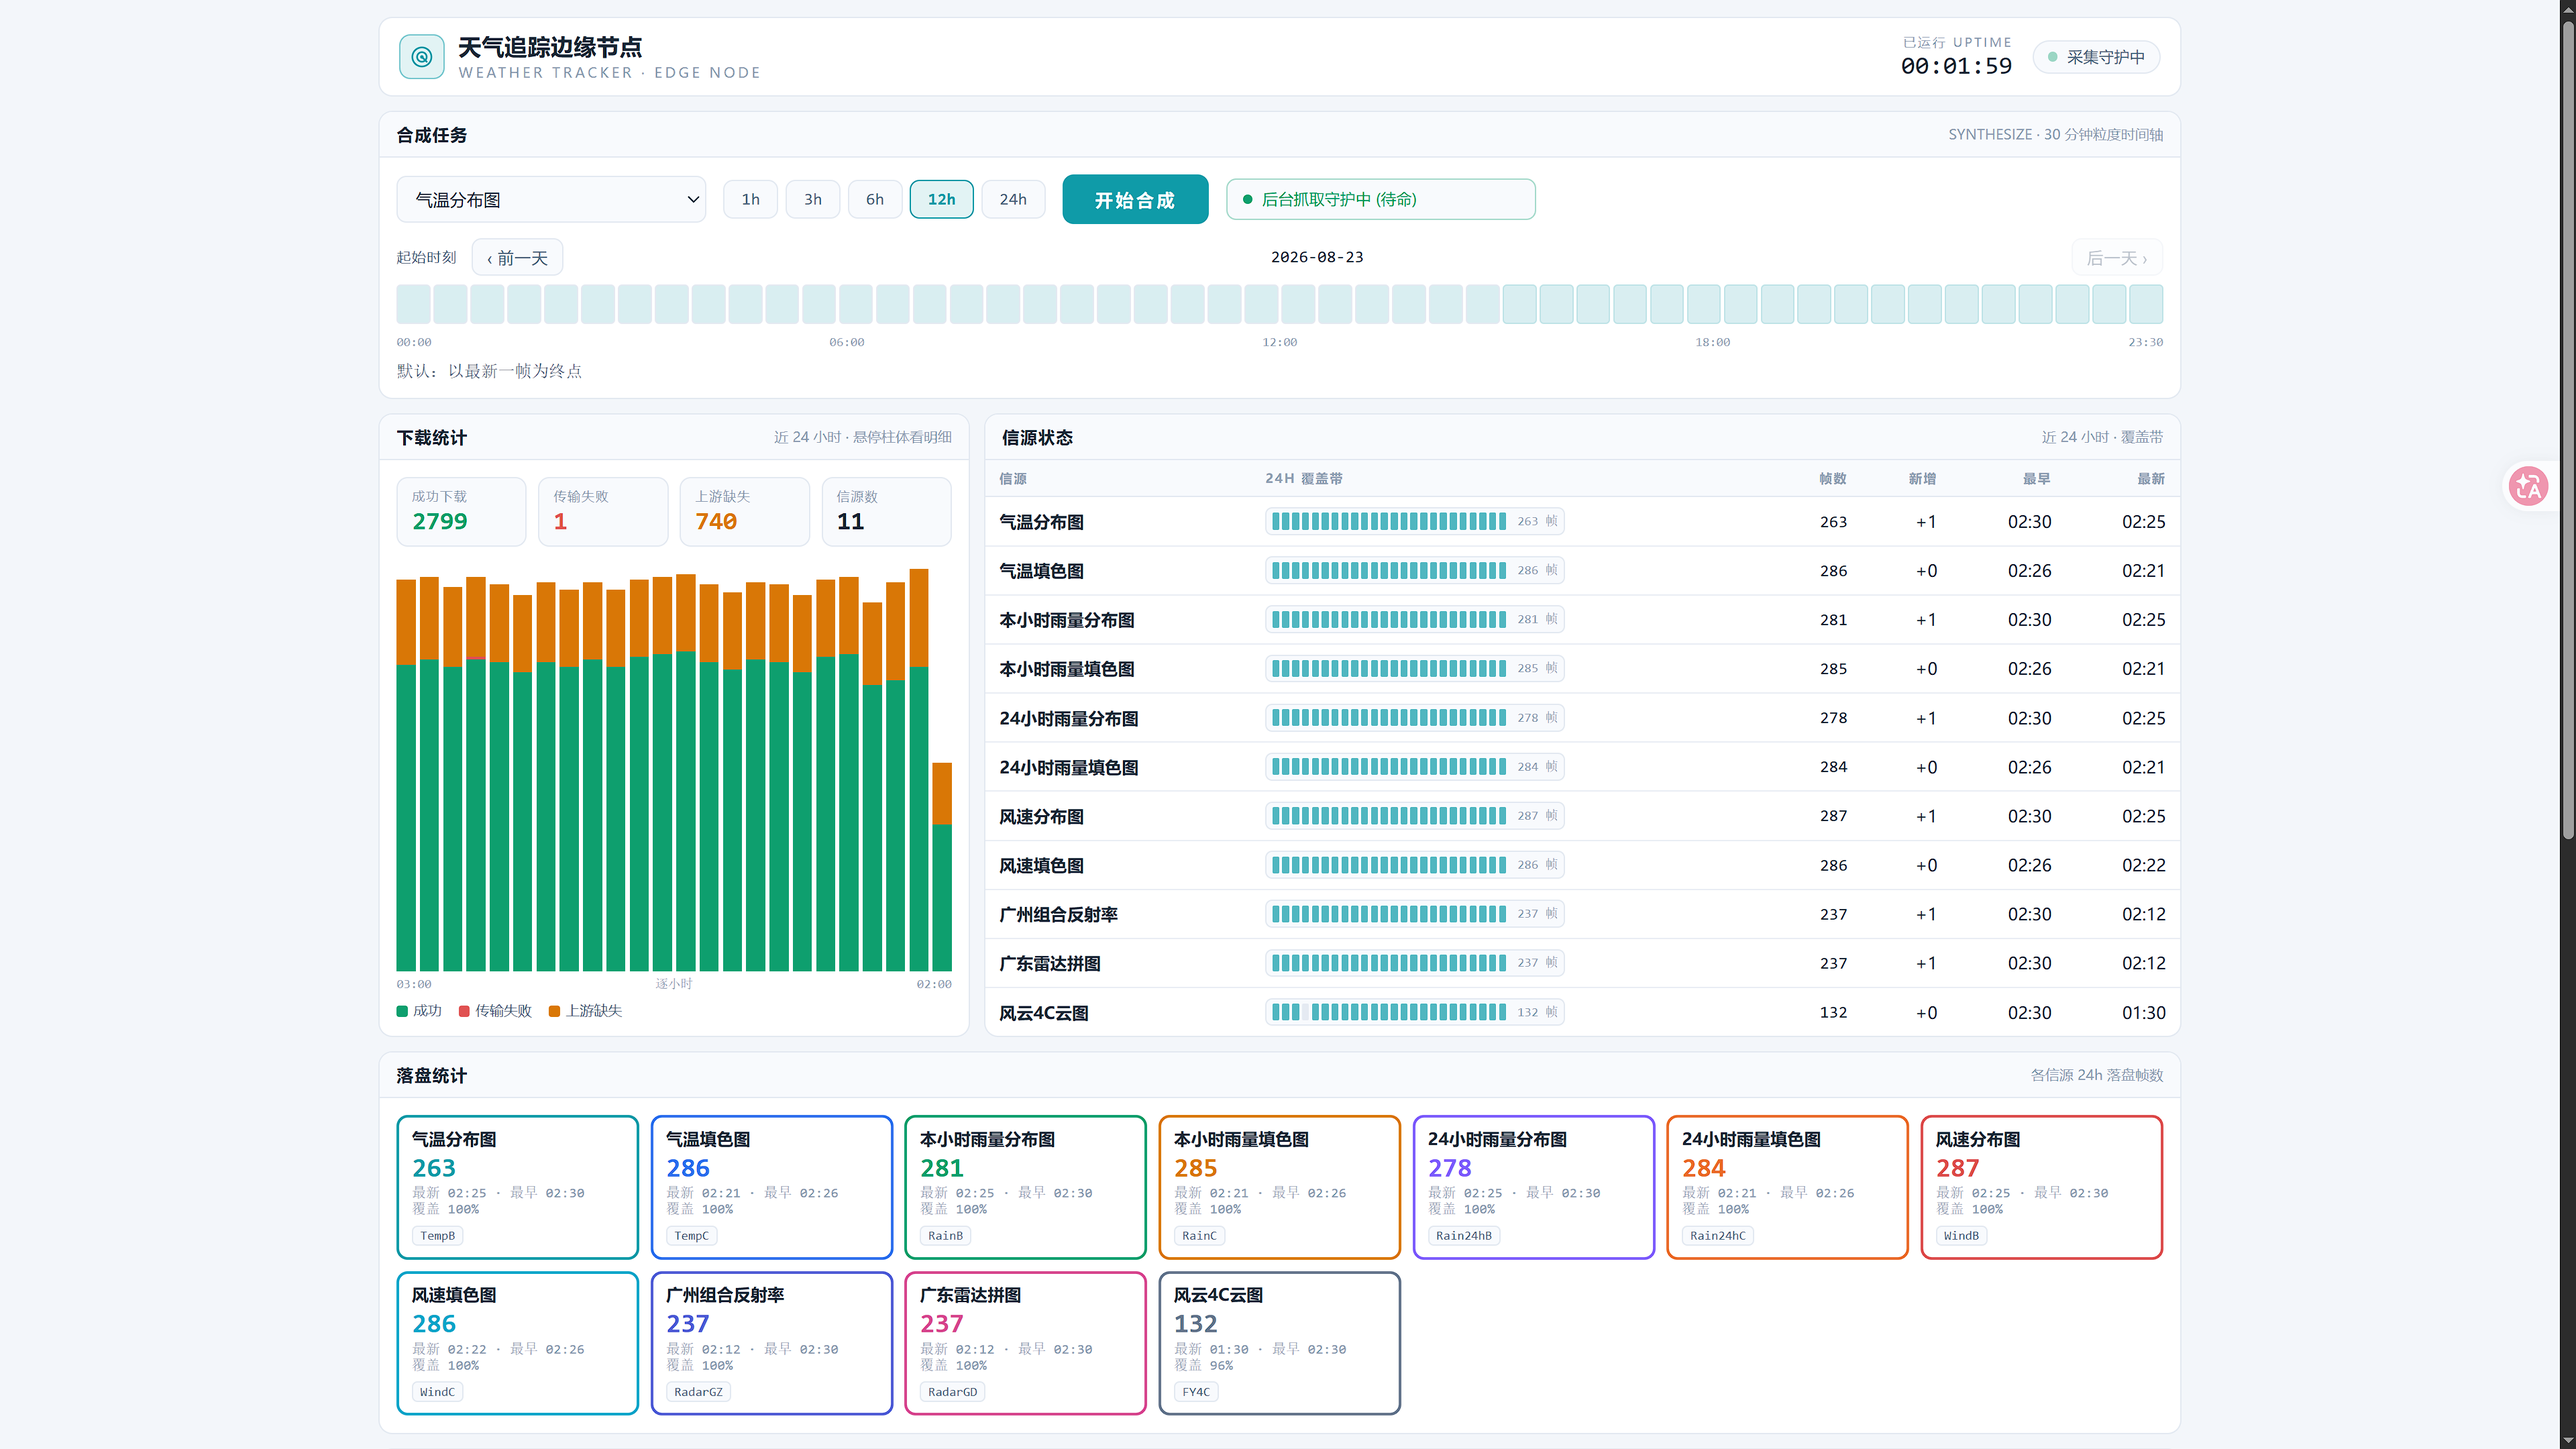
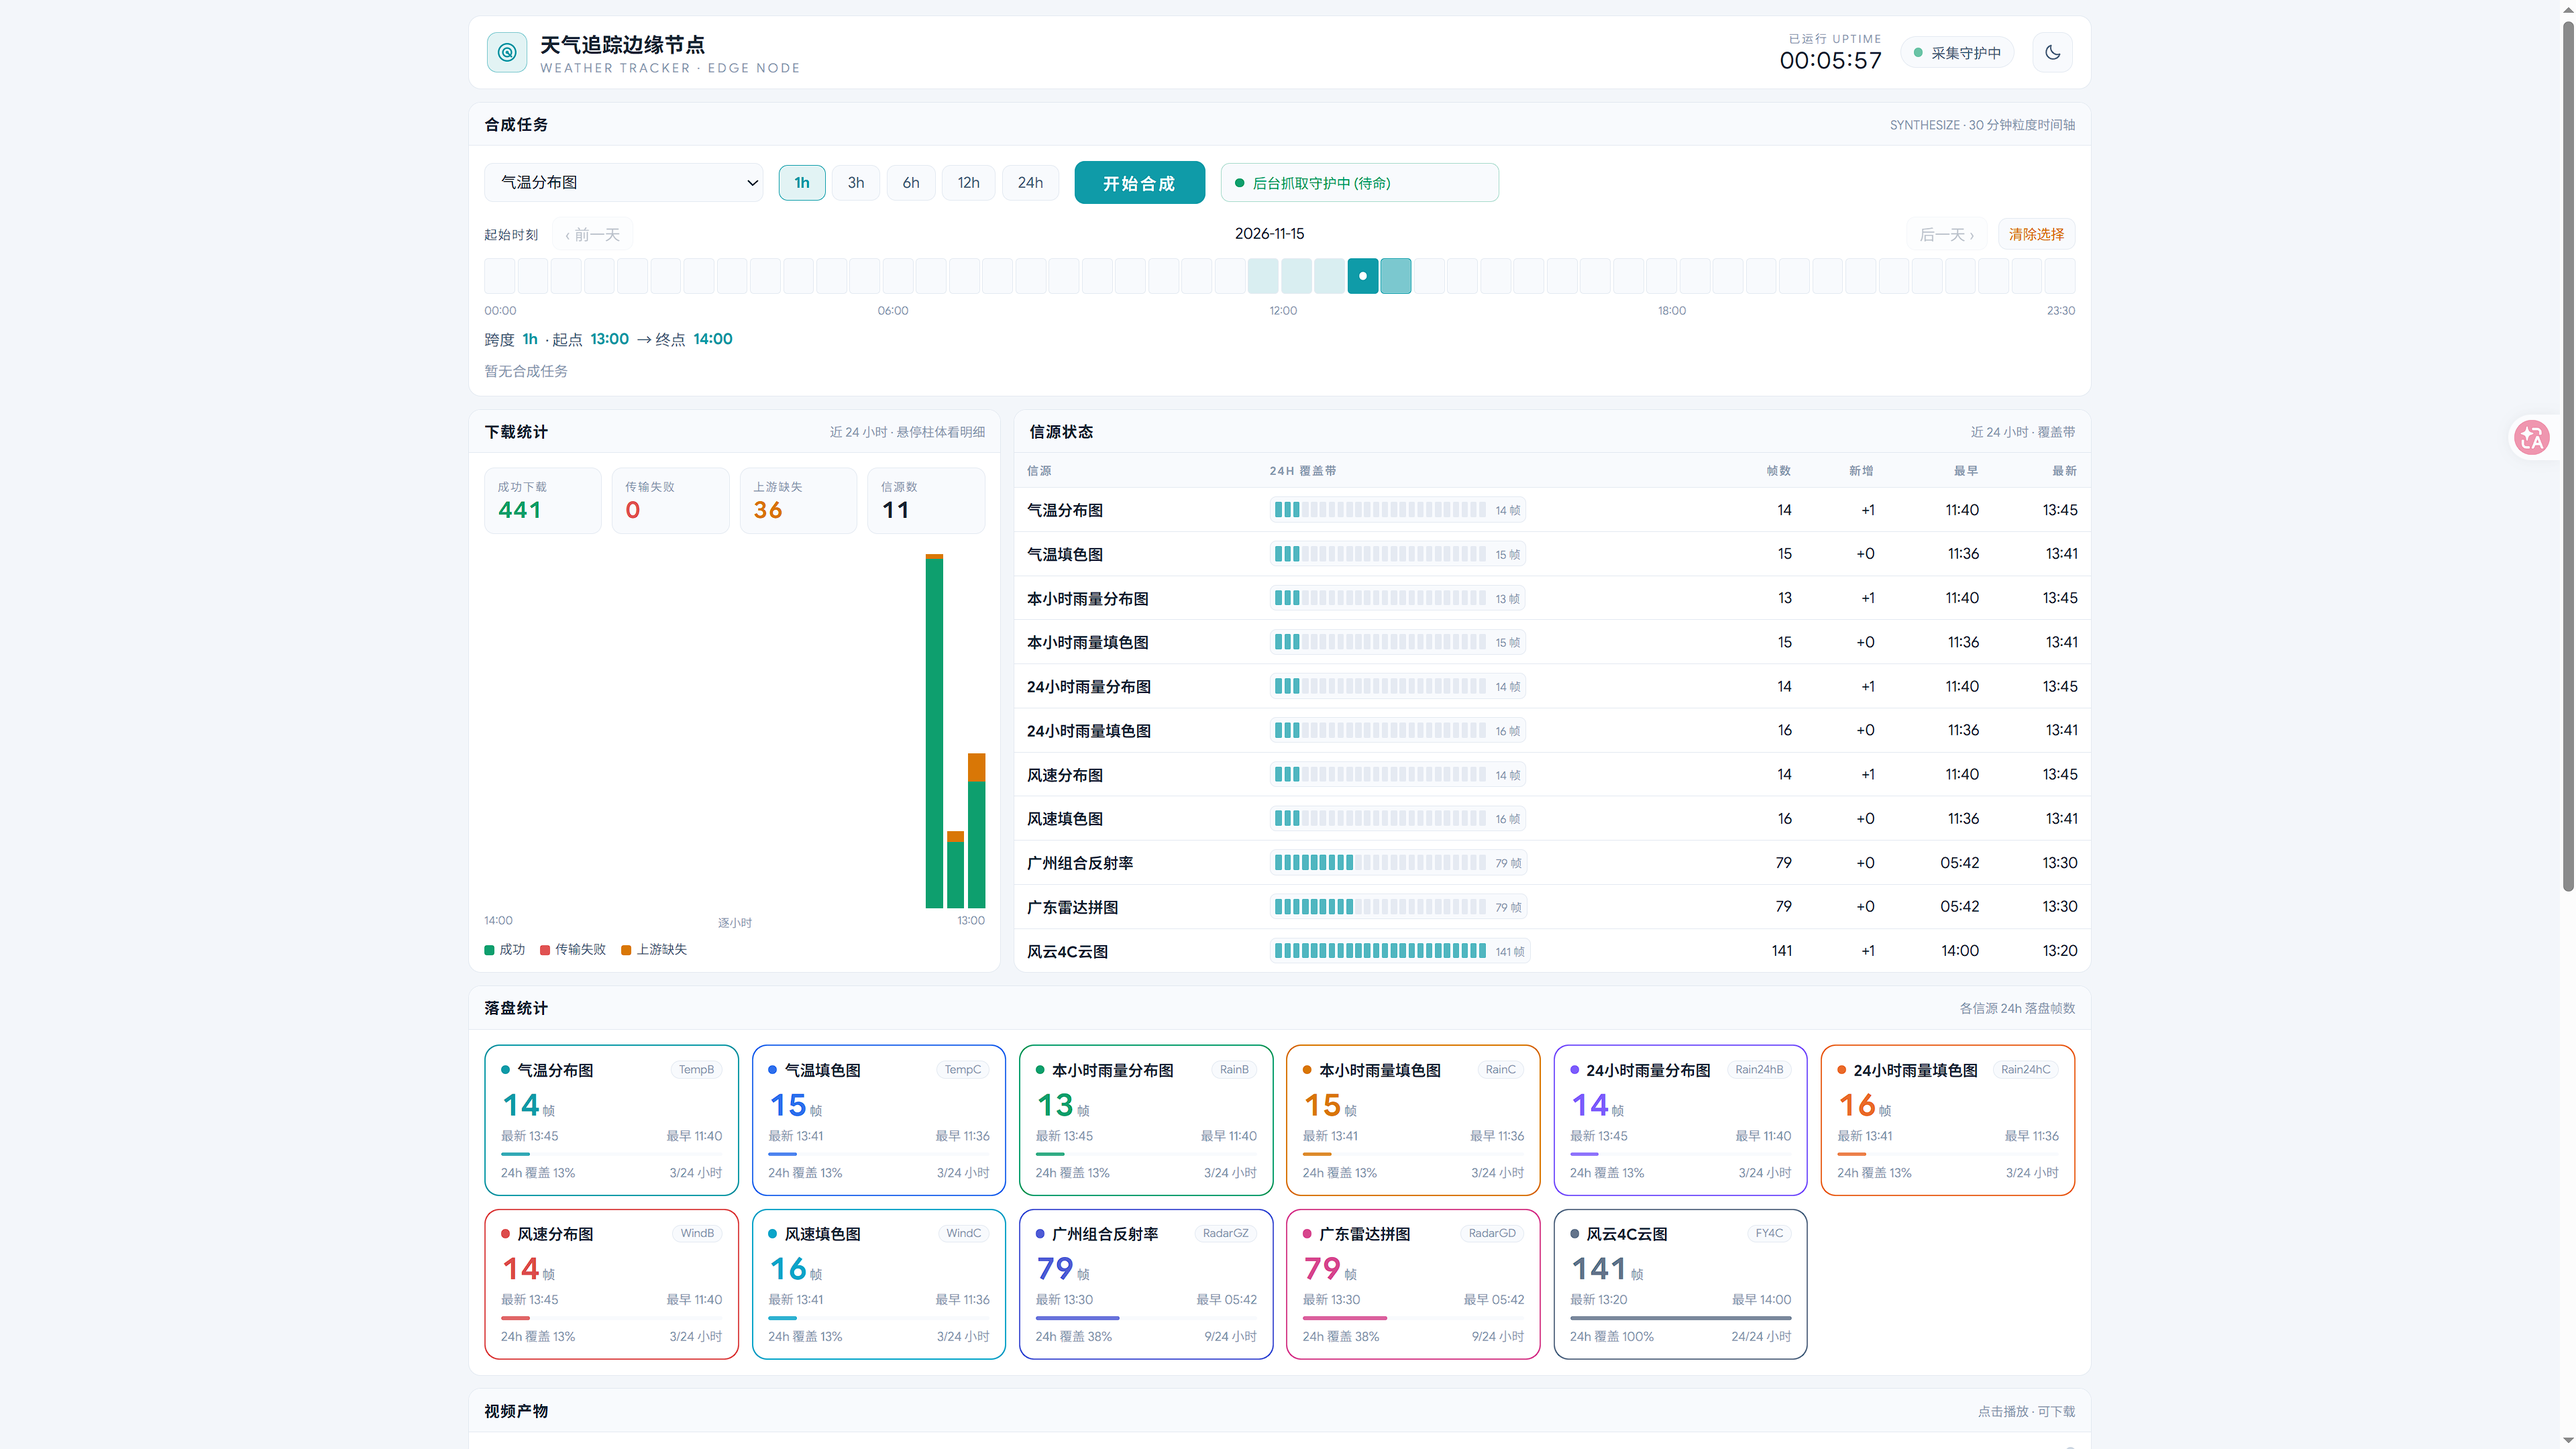
docs: 更新新版界面截图并修正过期架构描述

diff --git a/PRD.md b/PRD.md
@@ -47,7 +47,7 @@
 
 * **内存摘要防重**：下载完整的图片二进制实体后，在内存中计算 `SHA-256` 哈希摘要，与 `.latest_cursor.json` 中的历史哈希对比。即使服务端修改了时间戳，只要图像内容同质，直接丢弃避免重复落盘。
 * **IEND 块校验**：调用 Pillow 对下载的载荷进行 `img.verify()` 校验。能够精准拦截上游服务端因竞态写入（File Contention）导致的截断帧或坏图，校验失败则抛出异常进入指数退避（Exponential Backoff）重试，绝不让损坏的数据污染本地序列。
-* **原子落盘**：图片先写同目录 `*.part` 临时文件，再通过 `os.replace` 原子替换为正式文件名；游标与定时任务状态同样采用原子写。进程被强杀或断电时，正式文件名下不会出现半张图/半个 MP4，残留的 `.part` 由 GC 定时清理。
+* **原子落盘**：图片先写同目录 `*.part` 临时文件，再通过 `os.replace` 原子替换为正式文件名；游标同样采用原子写。进程被强杀或断电时，正式文件名下不会出现半张图/半个 MP4，残留的 `.part` 由 GC 定时清理。
 * **状态码分类重试**：`404` 视为上游缺帧静默跳过；`429/5xx/网络异常/坏图` 进入指数退避重试（尊重 `Retry-After`）；其余 `4xx` 视为永久失败，不做无意义重试。
 
 #### 2.3 动态压制与反向推演算法 (Synthesis & Reverse Deduction Pipeline)
@@ -101,7 +101,7 @@
 
 #### 3.1 运行环境与核心栈
 
-* **开发语言**：Python 3.12+ (采取 `src-layout` 工程标准，由 `uv` 进行全量依赖管理)
+* **开发语言**：Python 3.12+（`src/` 平铺模块，由 `uv` 进行全量依赖管理）
 * **网络与基础通信**：`FastAPI` + `Uvicorn` + `httpx` (支持 HTTP/2 Multiplexing)
 * **并发模型**：`asyncio` 异步事件循环 + 单线程先进先出队列
 * **底层编码驱动**：静态链接版 `ffmpeg.exe`（直接调用二进制指令进行 `image2pipe` YUV420P 转换）
@@ -119,7 +119,7 @@
 └──────┬───────────────────────────────────────────────────────────────┘
        │ (Atomic Rename write to disk)
        ▼
-[ Local Disk: /data/{img_type}/YYYYMMDD/ ] ──(read pointer)──► [ Stats Observer ] ──► (WebUI API)
+[ Local Disk: /data/{img_type}/YYYYMMDD/ ] ──(FrameCatalog/游标)──► [ Stats Observer ] ──► (WebUI API)
        ▲                                                                 
        │ (rglob scan)                                                    
 ┌──────┴────────────────────────────┐    ┌─────────────────────────────┐
@@ -128,7 +128,7 @@
                                                         │ (Put Task)
 [ WebUI User Request ] ──(POST /api/synthesize)─────────┴───┐
                                                             ▼
-                                                [ SYNTH_QUEUE (FIFO) ]
+                                                [ JobManager.queue (FIFO + Job 状态) ]
                                                             │ (Get Task)
                                                             ▼
                                               [ Synthesis Worker ] ──(subprocess)──► [ ffmpeg.exe ]
@@ -139,7 +139,7 @@
 2. **`stats_loop()`**：UI 观察者协程。为了不占用 I/O 导致老硬盘卡顿，它**从不全量扫盘**。计算新增数时只对比各分类下的 `.latest_cursor.json` 的字符串哈希；计算 24 小时可用帧时，严格限缩在 `now` 与 `now - 1 day` 两个物理日期文件夹内。
 3. **`gc_loop()`**：非阻塞定时清理协程。
 4. **`cron_loop()`**：每日 00:15 准点定时任务调度协程。
-5. **`synthesis_worker()`**：队列消费协程。无论前端下发多少个视频合成命令，队列消费严格串行化。通过 `asyncio.to_thread` 将阻塞的 FFmpeg 调用抛入底层线程池执行。任务间隔强制安插 5 秒冷却期（Cooldown），保障低负载平台 CPU 散温不降频。
+5. **`synthesis_worker()`**：队列消费协程。无论前端下发多少个视频合成命令，队列消费严格串行化。通过 `asyncio.to_thread` 将阻塞的 FFmpeg 调用抛入底层线程池执行。定时任务完成后强制 5 秒冷却期（Cooldown），手动任务连续执行不额外等待，保障低负载平台 CPU 散温不降频。
 
 ---
 
